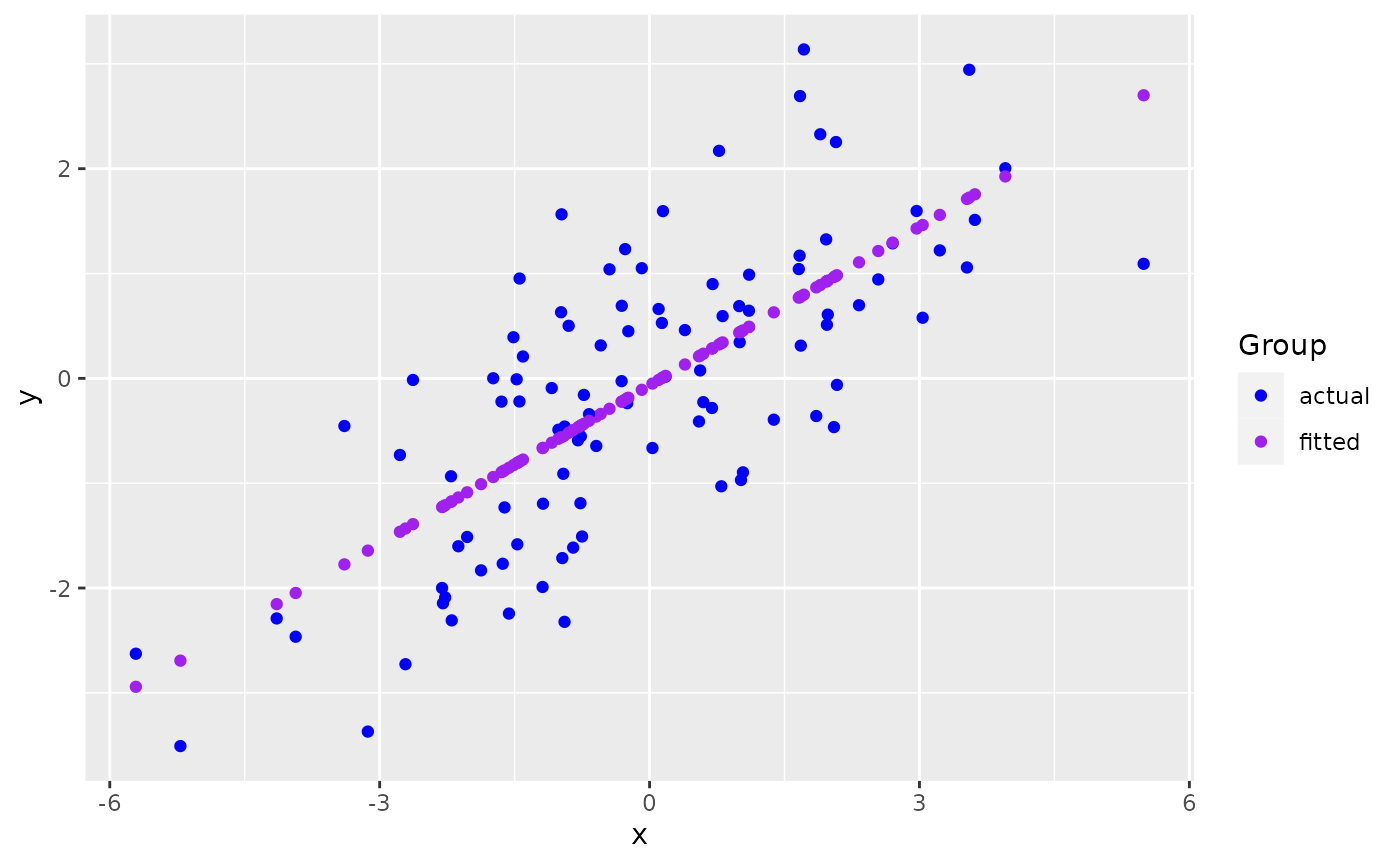
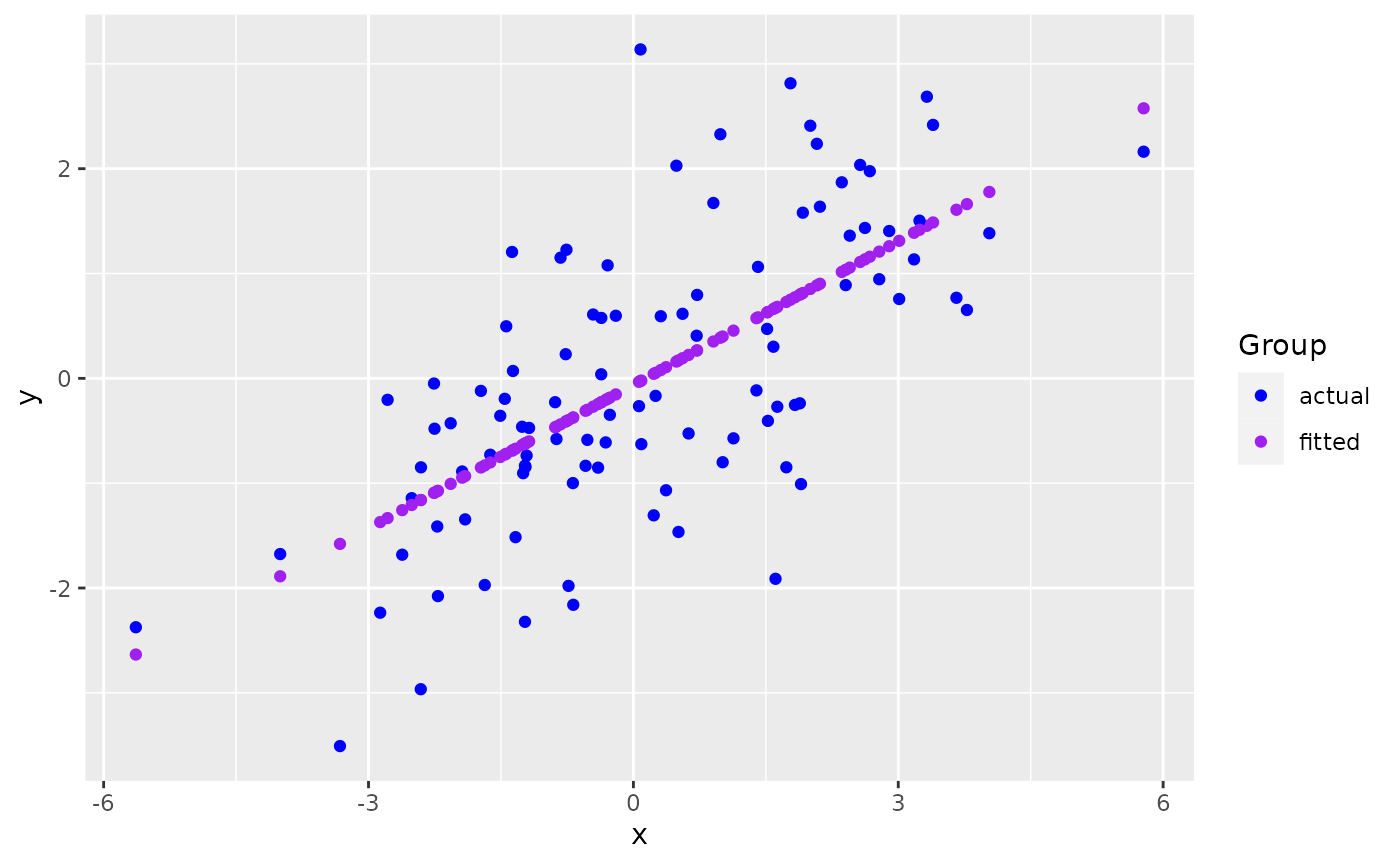
Built site for ggmatplot: 0.1.1@e4e71c6

diff --git a/articles/ggmatplot.html b/articles/ggmatplot.html
@@ -103,7 +103,7 @@
 <span class="va">x</span> <span class="op">&lt;-</span> <span class="fu"><a href="https://rdrr.io/r/base/c.html" class="external-link">c</a></span><span class="op">(</span><span class="fu"><a href="https://rdrr.io/r/stats/Normal.html" class="external-link">rnorm</a></span><span class="op">(</span><span class="fl">100</span>, sd <span class="op">=</span> <span class="fl">2</span><span class="op">)</span><span class="op">)</span>
 
 <span class="fu"><a href="https://rdrr.io/r/utils/head.html" class="external-link">head</a></span><span class="op">(</span><span class="va">x</span><span class="op">)</span>
-<span class="co">#&gt; [1] -0.5924881  0.6938314 -2.1255500 -2.7131258 -2.6298559 -1.4776191</span>
+<span class="co">#&gt; [1] -0.3135419  0.7217725 -0.3630882  0.3696811 -2.2138593  0.9850036</span>
 
 <span class="co"># matrix z</span>
 <span class="va">y</span> <span class="op">&lt;-</span> <span class="va">x</span> <span class="op">*</span> <span class="fl">0.5</span> <span class="op">+</span> <span class="fu"><a href="https://rdrr.io/r/stats/Normal.html" class="external-link">rnorm</a></span><span class="op">(</span><span class="fl">100</span>, sd <span class="op">=</span> <span class="fl">1</span><span class="op">)</span>
@@ -112,13 +112,13 @@
            fitted <span class="op">=</span> <span class="va">fit.y</span><span class="op">)</span>
 
 <span class="fu"><a href="https://rdrr.io/r/utils/head.html" class="external-link">head</a></span><span class="op">(</span><span class="va">z</span><span class="op">)</span>
-<span class="co">#&gt;         actual     fitted</span>
-<span class="co">#&gt; 1 -0.644893650 -0.3642409</span>
-<span class="co">#&gt; 2 -0.282550354  0.2836685</span>
-<span class="co">#&gt; 3 -1.601401547 -1.1364326</span>
-<span class="co">#&gt; 4 -2.726681003 -1.4323901</span>
-<span class="co">#&gt; 5 -0.015107122 -1.3904476</span>
-<span class="co">#&gt; 6 -0.008932655 -0.8100747</span></code></pre></div>
+<span class="co">#&gt;       actual     fitted</span>
+<span class="co">#&gt; 1 -0.6111602 -0.2051768</span>
+<span class="co">#&gt; 2  0.7959464  0.2674104</span>
+<span class="co">#&gt; 3  0.5764300 -0.2277930</span>
+<span class="co">#&gt; 4 -1.0676017  0.1066922</span>
+<span class="co">#&gt; 5 -2.0770859 -1.0726095</span>
+<span class="co">#&gt; 6  2.3283354  0.3875667</span></code></pre></div>
 <p><code>ggmatplot</code> plots vector <code>x</code> against each column of matrix <code>z</code> using the default <code>plot_type = "point"</code>. This will be represented on the resulting plot as two groups, identified using different shapes and colors.</p>
 <div class="sourceCode" id="cb2"><pre class="downlit sourceCode r">
 <code class="sourceCode R"><span class="kw"><a href="https://rdrr.io/r/base/library.html" class="external-link">library</a></span><span class="op">(</span><span class="va"><a href="https://github.com/xuan-liang/ggmatplot" class="external-link">ggmatplot</a></span><span class="op">)</span>
